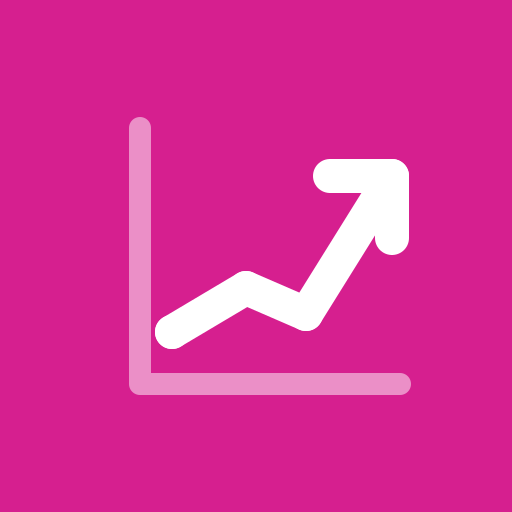
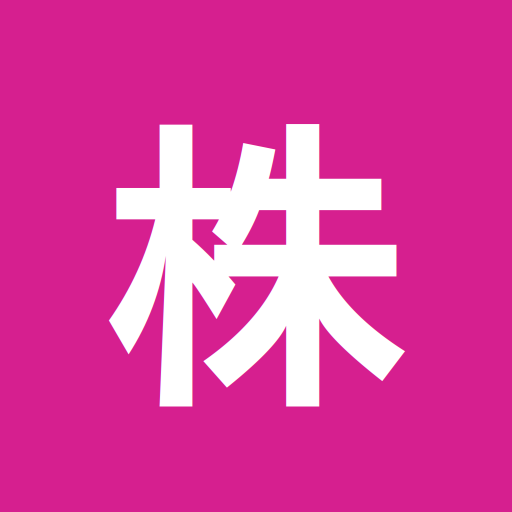
Traduce el título a Trader League / トレーダーリーグ y usa el kanji 株 como icono
El título de la app se traduce ahora por idioma: «Trader League» en inglés y
«トレーダーリーグ» en japonés. Afecta al <h1>, al título de la pestaña, al
nombre de la app instalada en iOS (apple-mobile-web-app-title) y al manifest
de Android (se sirve manifest-ja.webmanifest cuando el idioma es japonés).

El icono de la app instalada pasa a ser el kanji 株 (kabu, «acción/valor»)
en blanco sobre los fondos azul (iOS) y rosa (Android). make_icons.py se
actualiza para renderizar el glifo con una fuente japonesa (IPAGothic,
configurable con ICON_FONT).

Claude-Session: https://claude.ai/code/session_01EiRpBBuw7aRnEvBMB9GHfK

Changed region(s): [[0.2188, 0.2188, 0.8125, 0.8125]]

diff --git a/docs/index.html b/docs/index.html
@@ -7,8 +7,8 @@
 <meta name="theme-color" content="#0e0d13" media="(prefers-color-scheme: dark)">
 <link rel="apple-touch-icon" href="icon-ios.png">
 <link rel="manifest" href="manifest.webmanifest">
-<meta name="apple-mobile-web-app-title" content="Liga Trader">
-<title>🏆 Liga Trader</title>
+<meta name="apple-mobile-web-app-title" content="Trader League">
+<title>🏆 Trader League</title>
 <style>
   :root {
     color-scheme: light;
@@ -453,7 +453,7 @@
   <header>
     <div class="eyebrow" id="eyebrow"></div>
     <div class="hrow">
-      <h1>Liga Trader</h1>
+      <h1>Trader League</h1>
       <div class="hbtns">
         <button class="lang" id="lang-btn" type="button"><span id="lang-label"></span></button>
         <a class="upload" id="upload-mail" href="mailto:[email redacted]" data-i18n-title="sendPositions">

diff --git a/scripts/make_icons.py b/scripts/make_icons.py
@@ -1,12 +1,15 @@
 #!/usr/bin/env python3
 """Genera los iconos de la app (pantalla de inicio) a partir de un logo SVG.
 
-Un mismo logo de trading en blanco sobre dos fondos:
+El logo es el kanji japones 株 (kabu, «accion / valor bursatil») en blanco
+sobre dos fondos:
   - iPhone (apple-touch-icon): azul de ganancias  -> docs/icon-ios.png
   - Android (manifest):        rosa de perdidas    -> docs/icon-android-*.png
 
 Ejecuta:  python3 scripts/make_icons.py
-Requiere: cairosvg
+Requiere: cairosvg y una fuente japonesa instalada (p. ej. IPAGothic,
+          paquete fonts-ipafont-gothic). El nombre de familia se puede
+          ajustar con la variable de entorno ICON_FONT.
 """
 from __future__ import annotations
 
@@ -20,26 +23,16 @@ DOCS = os.path.normpath(os.path.join(HERE, "..", "docs"))
 BLUE = "#1667e0"   # --up (ganancias)
 PINK = "#d61f8f"   # --down (perdidas)
 
-# Logo de trading en blanco: linea de tendencia ascendente con flecha,
-# velas (candlesticks) crecientes y una linea base. viewBox 512x512.
-# El contenido se mantiene dentro de la "safe zone" central (~80%) para
-# que la mascara circular de Android (iconos maskable) no lo recorte.
+# Kanji 株 (kabu = accion/valor). Fuente japonesa; se puede sobreescribir con
+# ICON_FONT si el sistema usa otra familia (Noto Sans CJK JP, etc.).
+FONT = os.environ.get("ICON_FONT", "IPAGothic")
+
+# El glifo se centra y se mantiene dentro de la «safe zone» central (~80%)
+# para que la mascara circular de Android (iconos maskable) no lo recorte.
 LOGO = """
-  <g fill="none" stroke="#ffffff" stroke-linecap="round" stroke-linejoin="round">
-    <!-- ejes -->
-    <path d="M140 128 L140 384 L400 384" stroke-width="22" opacity="0.5"/>
-    <!-- linea de tendencia ascendente -->
-    <path d="M172 332 L246 288 L306 314 L392 176" stroke-width="34"/>
-    <!-- flecha (chevron apuntando arriba-derecha) -->
-    <path d="M330 176 L392 176 L392 238" stroke-width="34"/>
-    <!-- marcadores en los vertices -->
-    <g fill="#ffffff" stroke="none">
-      <circle cx="172" cy="332" r="17"/>
-      <circle cx="246" cy="288" r="17"/>
-      <circle cx="306" cy="314" r="17"/>
-    </g>
-  </g>
-"""
+  <text x="256" y="272" fill="#ffffff" font-family="{font}" font-weight="bold"
+        font-size="300" text-anchor="middle" dominant-baseline="central">株</text>
+""".format(font=FONT)
 
 SVG = """<svg xmlns="http://www.w3.org/2000/svg" width="512" height="512" viewBox="0 0 512 512">
   <rect width="512" height="512" rx="0" ry="0" fill="{bg}"/>

diff --git a/trader/webpage.py b/trader/webpage.py
@@ -33,9 +33,9 @@ _TEMPLATE = """<!doctype html>
 <meta name="theme-color" content="#efeaf8" media="(prefers-color-scheme: light)">
 <meta name="theme-color" content="#0e0d13" media="(prefers-color-scheme: dark)">
 <link rel="apple-touch-icon" href="icon-ios.png">
-<link rel="manifest" href="manifest.webmanifest">
-<meta name="apple-mobile-web-app-title" content="Liga Trader">
-<title>🏆 Liga Trader</title>
+<link rel="manifest" href="manifest.webmanifest" id="manifest-link">
+<meta name="apple-mobile-web-app-title" content="Trader League" id="app-title-meta">
+<title>🏆 Trader League</title>
 <style>
   :root {
     color-scheme: light;
@@ -501,7 +501,7 @@ _TEMPLATE = """<!doctype html>
   <header>
     <div class="eyebrow" id="eyebrow"></div>
     <div class="hrow">
-      <h1>Liga Trader</h1>
+      <h1 data-i18n="appTitle">Trader League</h1>
       <div class="hbtns">
         <button class="lang" id="lang-btn" type="button"><span id="lang-label"></span></button>
         <a class="upload" id="upload-mail" href="mailto:[email redacted]" data-i18n-title="sendPositions">
@@ -644,6 +644,7 @@ const monthLabel = (m, y) => LANG === "ja"
 
 const I18N = {
   en: {
+    appTitle: "Trader League",
     eyebrow: "🏆 League · Revolut · updated " + UPDATED,
     sendPositions: "Send positions",
     mailBody: "attached are my positions in csv format",
@@ -790,6 +791,7 @@ const I18N = {
     },
   },
   ja: {
+    appTitle: "トレーダーリーグ",
     eyebrow: "🏆 リーグ · Revolut · 更新 " + UPDATED,
     sendPositions: "ポジションを送信",
     mailBody: "csv形式のポジションを添付します",
@@ -953,6 +955,16 @@ const T = I18N[LANG];
   });
   const eb = document.getElementById("eyebrow");
   if (eb) eb.textContent = T.eyebrow;
+  // título de la pestaña y de la app instalada según el idioma
+  document.title = "🏆 " + T.appTitle;
+  const titleMeta = document.getElementById("app-title-meta");
+  if (titleMeta) titleMeta.setAttribute("content", T.appTitle);
+  // el nombre de la app instalada (Android) sale del manifest: en japonés se
+  // apunta a un manifest propio con el nombre traducido
+  if (LANG === "ja") {
+    const ml = document.getElementById("manifest-link");
+    if (ml) ml.setAttribute("href", "manifest-ja.webmanifest");
+  }
 })();
 
 // ---- toggle de idioma (reemplaza al botón de refresco): guarda la ----